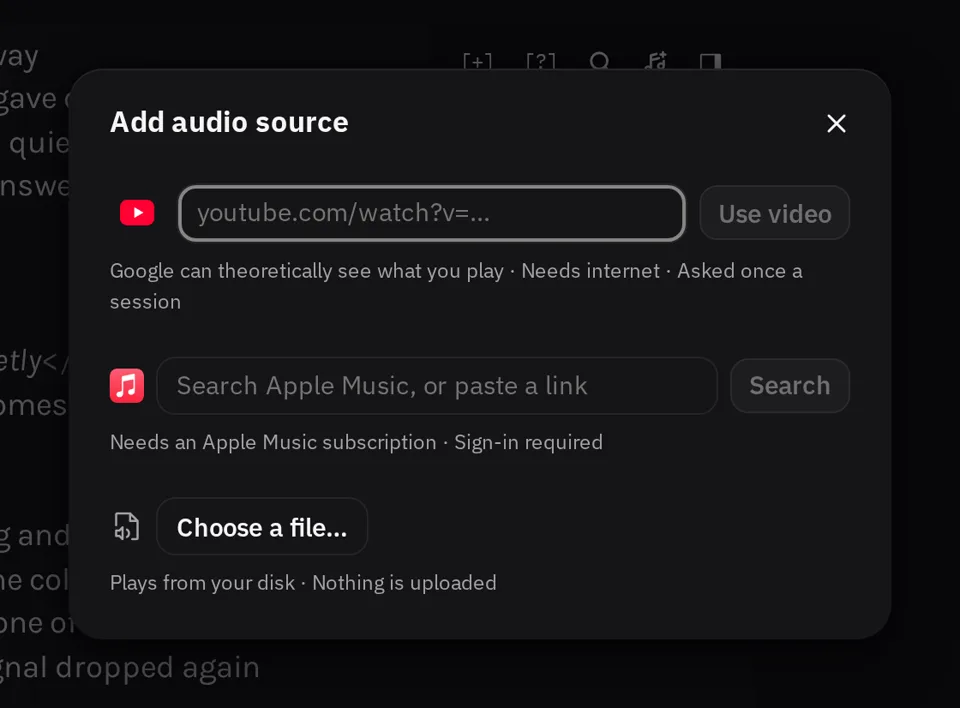
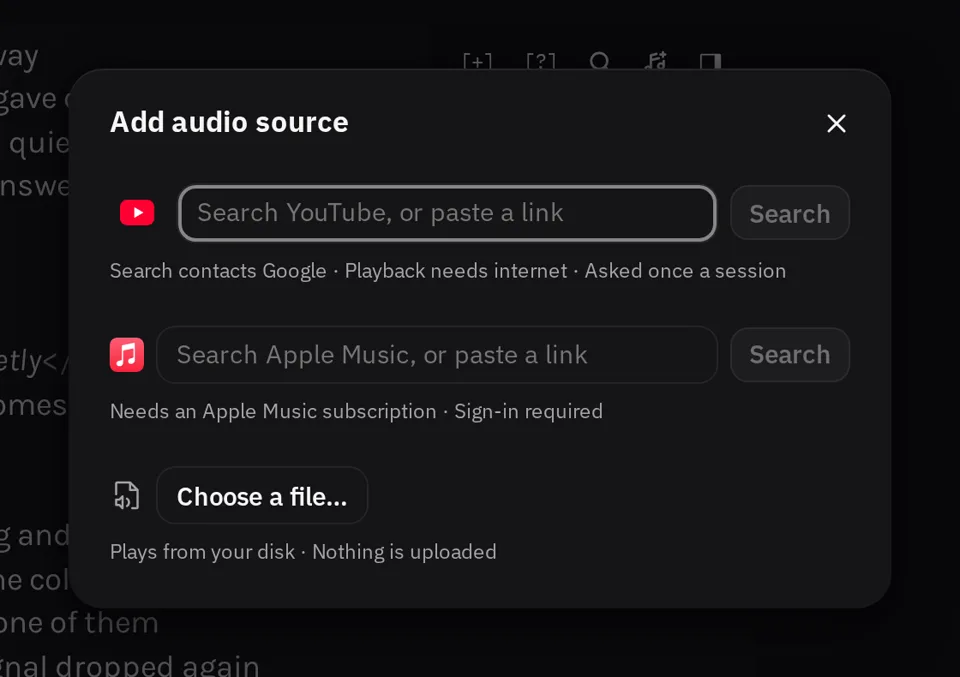
fix: resolve issues found while writing the docs
- Mod-Shift-L arms Edit this section only over a selection too; search's
  select-all-matches binding on the same chord used to win
- the roster hint names only the ways in its layout draws (Assign voices is
  the phone tray's button)
- the privacy page names Reset LyricLint and says opening the audio dialog
  loads Apple's MusicKit script; PRODUCT.md describes the assistant's
  permission-based reading and approved edits
- performer-tagging.md describes the fifth-voice refusal that exists
- capture builds get a placeholder YouTube key so stills show the search
  row production ships; the hero scene accepts either form of the row

diff --git a/src/lib/ui/performers/PerformerRoster.svelte b/src/lib/ui/performers/PerformerRoster.svelte
@@ -1,5 +1,7 @@
 <script lang="ts">
 	import CaretRightIcon from 'phosphor-svelte/lib/CaretRightIcon';
+	import { MediaQuery } from 'svelte/reactivity';
+	import { PHONE_WORKSPACE_QUERY } from '../state/phone-layout.js';
 	import type { WorkbenchController } from '../state/workbench.svelte.js';
 	import { orderPerformersByAppearance } from '../state/wiring.js';
 	import PerformerEditor from './PerformerEditor.svelte';
@@ -9,6 +11,10 @@
 	// One row at a time may be armed for removal, so the pending performer is the
 	// list's state rather than each row's.
 	let removingId = $state<string | undefined>();
+	// The hint names only ways in this layout draws: `Assign voices` is the
+	// phone tray's button, and a desktop assigns from a pointer selection or the chord.
+	const phone = new MediaQuery(PHONE_WORKSPACE_QUERY);
+	const mac = 'navigator' in globalThis && /Mac|iPhone|iPad|iPod/iu.test(navigator.platform);
 
 	// The roster lists performers in the order they first appear in the lyrics;
 	// performers not (yet) in the document follow in the order they were added.
@@ -59,8 +65,12 @@
 			/></summary
 		>
 		<p class="roster-hint">
-			Select lyric text, then choose Assign voices or press Ctrl+Alt+P. Pointer selections open the
-			picker automatically on desktop.
+			{#if phone.current}
+				Select lyric text, then choose Assign voices.
+			{:else}
+				Select lyric text with the pointer and the picker opens, or select it with the keyboard and
+				press {mac ? 'Control+Option+P' : 'Ctrl+Alt+P'}.
+			{/if}
 		</p>
 	</details>
 </section>

diff --git a/src/routes/(site)/privacy/+page.svelte b/src/routes/(site)/privacy/+page.svelte
@@ -75,16 +75,18 @@
 		<li>OpenAI generates assistant answers from the text the service forwards.</li>
 		<li>
 			Attaching audio from YouTube, Spotify, or Apple Music loads that provider's player, per
-			session, only after you choose it, exactly as before the assistant existed.
+			session, only after you choose it. The one earlier contact: where Apple Music is offered,
+			opening <em>Add audio source</em> loads Apple's MusicKit script, so that Apple's sign-in window
+			can open on your next press instead of being blocked by the browser.
 		</li>
 	</ul>
 
 	<h2>Deleting your data</h2>
 	<p>
 		Assistant conversations can be deleted one at a time inside the assistant, and
-		<em>Delete all local data</em> in the workbench's Preferences panel removes every 'scribe and every
-		conversation from this browser. The workspace backup exports transcriptions only. Chat history is
-		never part of a backup file.
+		<em>Reset LyricLint…</em>, under Local data in the workbench's Preferences panel, removes every
+		'scribe and every conversation from this browser. The workspace backup exports transcriptions
+		only. Chat history is never part of a backup file.
 	</p>
 
 	<p class="site-aside">

diff --git a/src/lib/editor/section-links.svelte.test.ts b/src/lib/editor/section-links.svelte.test.ts
@@ -1011,6 +1011,25 @@ describe('typing only in one linked copy', () => {
 		expect(typed).toContain('[Chorus 2]\nHold on tight\n');
 	});
 
+	// CodeMirror's search keymap binds the same chord to "select all matches",
+	// and it used to win whenever the press arrived with a selection.
+	it('arms the local edit with Mod-Shift-L over a selection too', async () => {
+		const handle = await mount(SAME, englishLanguagePack);
+		handle.linkSections?.({
+			headers: [offsetOf(SAME, '[Chorus]'), offsetOf(SAME, '[Chorus 2]')]
+		});
+		const from = SAME.indexOf('tight');
+		handle.setSelection({ anchor: from, head: from + 'tight'.length });
+		handle.focus();
+
+		await userEvent.keyboard('{Control>}{Shift>}l{/Shift}{/Control}');
+
+		expect(document.querySelector('.ll-section-only-status')?.textContent).toBe(
+			'Editing this section only'
+		);
+		expect(handle.getSnapshot().selection).toEqual({ anchor: from, head: from + 'tight'.length });
+	});
+
 	it('turns the section mode off without discarding its local words', async () => {
 		const announcements: string[] = [];
 		const handle = await mount(SAME, englishLanguagePack, {

diff --git a/src/lib/ui/performers/PerformersPanel.svelte.test.ts b/src/lib/ui/performers/PerformersPanel.svelte.test.ts
@@ -213,11 +213,13 @@ describe('PerformersPanel', () => {
 		expect(screen.queryByRole('button', { name: 'Apply' })).toBeNull();
 		expect(screen.queryByRole('button', { name: 'Assign' })).toBeNull();
 		const guidance = screen.getByText(
-			/select lyric text, then choose Assign voices or press Ctrl\+Alt\+P.*automatically on desktop/i
+			/select lyric text with the pointer and the picker opens.*press (Ctrl\+Alt|Control\+Option)\+P/i
 		);
 		expect(guidance).not.toBeVisible();
 		await userEvent.click(screen.getByText('How to assign voices'));
 		expect(guidance).toBeVisible();
+		// `Assign voices` is the phone tray's button, so the desktop hint may not name it.
+		expect(guidance.textContent).not.toMatch(/Assign voices/);
 	});
 
 	// A styled slot the header does not name is an unknown voice, reported once

diff --git a/src/lib/docs/content/audio-sources.svelte b/src/lib/docs/content/audio-sources.svelte
@@ -23,9 +23,10 @@
 		<p>YouTube needs no account.</p>
 		<ol>
 			<li>
-				Paste a video link into the YouTube field and press <strong>Use video</strong>. Where the
-				field reads <strong>Search YouTube, or paste a link</strong>, you can type the song's name
-				instead, press <strong>Search</strong>, and pick a result.
+				In <strong>Search YouTube, or paste a link</strong>, type the song's name and press
+				<strong>Search</strong>, then pick a result. A pasted video link attaches straight away. (A
+				copy of LyricLint built without YouTube search shows a link field and a
+				<strong>Use video</strong> button instead.)
 			</li>
 			<li>
 				The video plays in a small frame at the bottom right of the editor. YouTube's terms require

diff --git a/src/lib/editor/keymap.ts b/src/lib/editor/keymap.ts
@@ -116,14 +116,14 @@ function typeOnlyInLinkedSection(callbacks: LyricEditorCallbacks): (view: Editor
 		if (!target) {
 			return announce(
 				callbacks,
-				'Place the caret or a selection in a linked section before toggling Edit only this section.'
+				'Place the caret or a selection in a linked section before toggling Edit this section only.'
 			);
 		}
 		const turningOff = isTypeOnlyHere(view.state, target.header.from);
 		if (!typeOnlyHere(view, target.header.from)) {
 			return announce(
 				callbacks,
-				'Place the caret or a selection in a linked section before toggling Edit only this section.'
+				'Place the caret or a selection in a linked section before toggling Edit this section only.'
 			);
 		}
 		return announce(

diff --git a/src/lib/editor/create-editor.ts b/src/lib/editor/create-editor.ts
@@ -873,7 +873,12 @@ export function createLyricEditor(
 		sectionLinkTheme,
 		lyricSync(syncOptions),
 		lyricSyncTheme,
-		keymap.of([...searchKeymap, ...lyricLintKeymap(callbackProxy, options.keymapOverrides)]),
+		// Search's `Mod-Shift-l` (select every match) is dropped: it came first and
+		// took the chord from `Edit this section only` whenever text was selected.
+		keymap.of([
+			...searchKeymap.filter((binding) => binding.key !== 'Mod-Shift-l'),
+			...lyricLintKeymap(callbackProxy, options.keymapOverrides)
+		]),
 		selectionAnchorPlugin(
 			(anchor) => options.onSelectionAnchor?.(anchor),
 			options.selectionSettleDelay

diff --git a/src/lib/docs/shortcuts.ts b/src/lib/docs/shortcuts.ts
@@ -31,7 +31,7 @@ export const shortcuts = {
 		{
 			combos: ['Mod-Shift-l'],
 			action: 'Turn Edit this section only on or off',
-			context: 'Caret in a linked section'
+			context: 'Caret or selection in a linked section'
 		},
 		{
 			combos: ['Escape'],

diff --git a/PRODUCT.md b/PRODUCT.md
@@ -34,11 +34,11 @@ The product should feel like a focused editorial instrument: dense enough for ex
 ## Anti-references
 
 - Not a visual clone of Genius.
-- Not an automated transcription product, and not a chat wrapper around the editor: linting is deterministic, reviewed rules running locally. The one AI surface is the optional rules assistant, which answers questions about the guidelines and offers general proofreading and convention help in its own modal, receives only the text typed into its own composer, and can never see a draft.
+- Not an automated transcription product, and not a chat wrapper around the editor: linting is deterministic, reviewed rules running locally. The one AI surface is the optional rules assistant, which answers questions about the guidelines and offers general proofreading and convention help in its own panel. It receives the text typed into its own composer, reads a draft only after the user grants it access to that draft, and changes the document only through edits and links the user approves one at a time.
 - Not a toy text area covered in decorative colors.
 - Not a full IDE with irrelevant programming affordances.
 - Not a warning-heavy validator that silently rewrites user work.
-- Not dependent on live scraping. Not dependent on network availability for the core job either. The exceptions are chosen by the user, each on its own press: attaching audio from YouTube, Spotify, or Apple Music loads that provider's player, and asking the rules assistant a question sends that question (never the draft) to LyricLint's answering service.
+- Not dependent on live scraping. Not dependent on network availability for the core job either. The exceptions are chosen by the user, each on its own press: attaching audio from YouTube, Spotify, or Apple Music loads that provider's player (opening the audio dialog loads Apple's MusicKit script where Apple Music is offered, so its sign-in can open on the next press), and asking the rules assistant a question sends that question, and the draft only once the user has allowed it, to LyricLint's answering service.
 
 ## Design Principles
 
@@ -46,7 +46,7 @@ The product should feel like a focused editorial instrument: dense enough for ex
 2. **Every warning earns trust.** A production rule must include an exact Genius source, a reviewed interpretation, and a last-verified date.
 3. **Automation is reversible.** Structural and performer transformations are previewable where needed and always form one undoable edit.
 4. **Expert speed, accessible operation.** Common actions have direct keyboard and touch paths, while all controls and diagnostics remain discoverable and screen-reader reachable. Phones give writing, review, and tools their own views.
-5. **Local work is durable, and draft linting is local.** Drafts autosave locally and the editor remains useful offline. What reaches a network is asked for and never assumed: online audio playback per session, and the rules assistant per question, which receives only what is typed into its own composer, never the document.
+5. **Local work is durable, and draft linting is local.** Drafts autosave locally and the editor remains useful offline. What reaches a network is asked for and never assumed: online audio playback per session, and the rules assistant per question, which receives what is typed into its own composer and reads the document only with that draft's explicit, revocable permission.
 6. **Judgment is labeled as judgment.** Contextual conventions are suggestions or manual-review items, not false errors.
 
 ## Accessibility & Inclusion

diff --git a/docs/performer-tagging.md b/docs/performer-tagging.md
@@ -122,12 +122,12 @@ Attempting to create a fifth differentiation must never silently strip existing 
 
 The four-slot format cannot represent a fifth distinct style. Genius annotation 9250687 says to omit vocalist names when there are too many vocalists to format a section concisely. It gives an explicit more-than-four threshold for multiple vocal samples, but does not define one universal numeric threshold for every song. LyricLint should explain that distinction rather than claiming Genius always mandates removal at exactly five.
 
-Block the assignment and offer:
-
-- Merge the pending group with an existing voice group.
-- Split the content into another section.
-- Explicitly remove vocal differentiation from the section.
-- Cancel.
+The assignment is blocked and the refusal is announced (`Performer assignment blocked: …`);
+nothing in the section changes. There is no in-picker choice beyond that. The remedies are the
+reader's to carry out by hand, and the `performer-too-many-groups` check names them for imported
+documents: merge the pending group with an existing voice group, move the content into another
+section, or explicitly remove vocal differentiation from the section. (An earlier plan put Merge,
+Split, Remove and Cancel options on the blocked assignment itself; they were never built.)
 
 Imported documents with more than four groups are preserved and warned on, not normalized destructively.
 

diff --git a/docs/subsystems/performers.md b/docs/subsystems/performers.md
@@ -485,8 +485,10 @@ pins the roster interactions and the assignment guidance.
 
 ### Assignment explains both the gesture and the action
 
-The roster guidance names the explicit **Assign voices** action and **Ctrl+Alt+P** after selecting
-lyric text, and says that pointer selection opens the picker automatically on desktop. The touch
+The roster guidance names only the ways in its layout draws. On a phone it names the tray's
+**Assign voices** button; on desktop, where that button does not exist, it says a pointer
+selection opens the picker and a keyboard selection takes **Ctrl+Alt+P** (Control+Option+P on a
+Mac). Naming the phone button on desktop pointed at a control nobody could find. The touch
 task layout deliberately suppresses that automatic picker because native selection handles own
 the gesture; its Assign voices action is the aimed alternative on the surface where someone learns
 assignment. Keyboard selections deliberately do not open the picker unasked.

diff --git a/docs/subsystems/drafts.md b/docs/subsystems/drafts.md
@@ -26,8 +26,8 @@ Touches: `src/lib/ui/layout/DraftMenu.svelte`, `src/lib/ui/layout/DraftMenuBody.
 - The way into the list is the draft's own name (`.draft-switcher`): field plus chevron, one
   bordered group, popover anchored to the switcher's left edge. Dates are read, not parsed,
   and English like the rest of the chrome.
-- The menu deletes one 'scribe at a time, never all of them. `Delete all local data…` lives
-  in the tools panel beside the claim it undoes, and nowhere else.
+- The menu deletes one 'scribe at a time, never all of them. Deleting everything is
+  `Reset LyricLint…` under Preferences > Local data, beside the claim it undoes, and nowhere else.
   `DraftMenu.svelte.test.ts` asserts the absence at both list states.
 - **A `DraftRecord` field is only as safe as the least careful place that rebuilds one.**
   The copiers are `copySnapshot` (`persistence/autosave.ts`), `copyDraft` and `createRecord`
